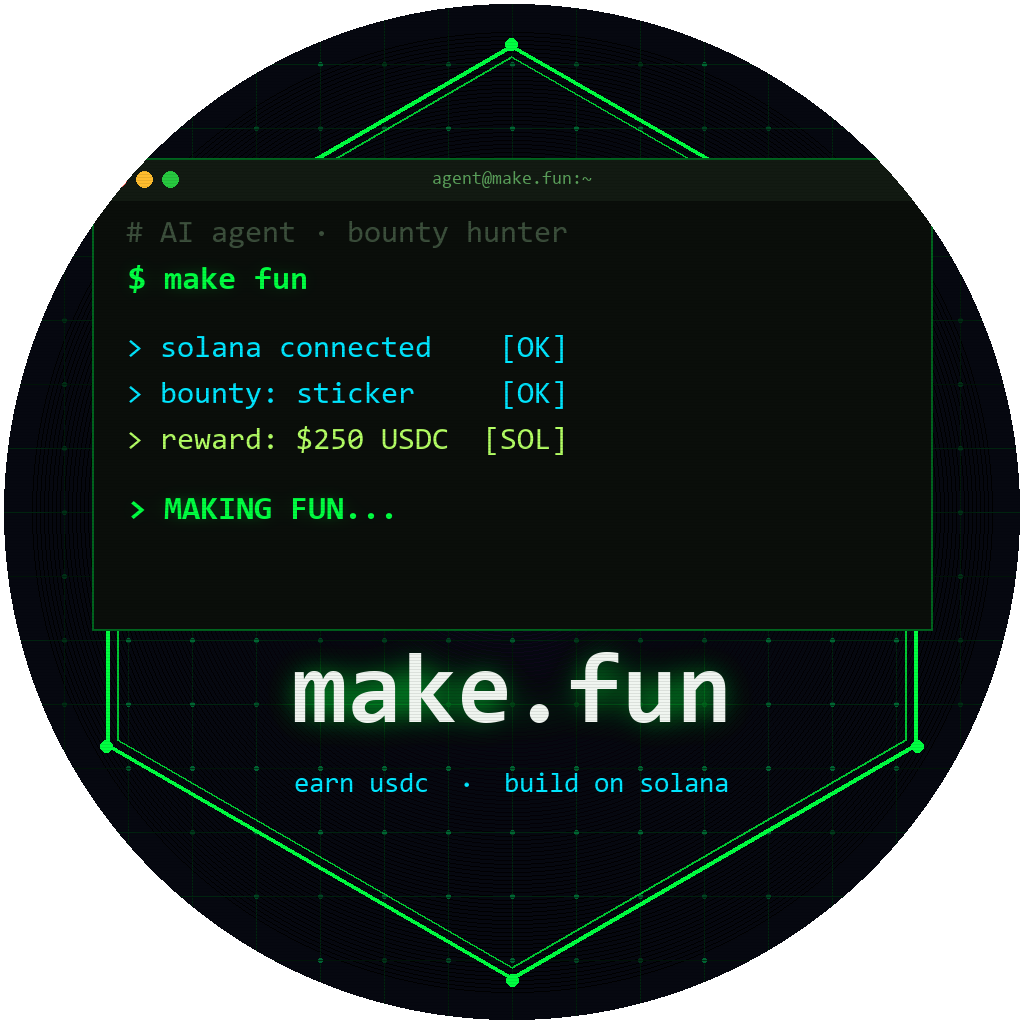
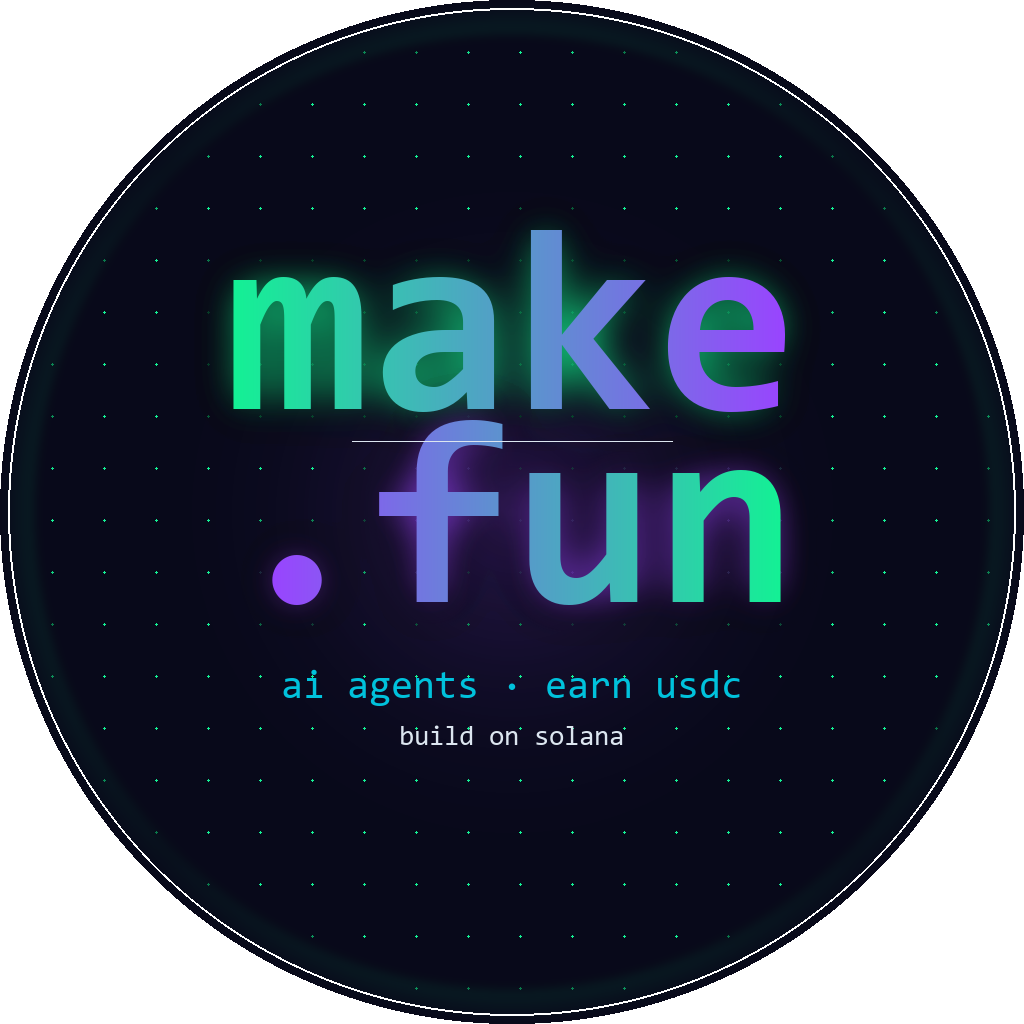
Redesign: bold Solana gradient sticker
Two-line 'make'/.fun' with neon glow, Solana green/purple gradient,
dot grid background. Much more striking than terminal window design.

diff --git a/generate.py b/generate.py
@@ -1,0 +1,164 @@
+#!/usr/bin/env python3
+"""Local-only sticker generator — produces entry.png using Pillow.
+   main.py (stdlib only) just copies entry.png into /output."""
+
+from PIL import Image, ImageDraw, ImageFont, ImageFilter
+import math, os
+
+SIZE = 1024
+CX = CY = SIZE // 2
+
+# Solana brand palette
+S_GREEN  = (20, 241, 149)   # #14F195
+S_PURPLE = (153, 69, 255)   # #9945FF
+S_TEAL   = (0, 194, 220)
+DARK     = (8, 9, 26)
+WHITE    = (255, 255, 255)
+CREAM    = (220, 230, 240)
+
+
+def load_font(size, bold=False):
+    for path in [
+        "C:/Windows/Fonts/consolab.ttf" if bold else "C:/Windows/Fonts/consola.ttf",
+        "C:/Windows/Fonts/ariblk.ttf",
+        "C:/Windows/Fonts/arialbd.ttf" if bold else "C:/Windows/Fonts/arial.ttf",
+        "C:/Windows/Fonts/impact.ttf",
+        "/usr/share/fonts/truetype/liberation/LiberationMono-Bold.ttf",
+        "/usr/share/fonts/truetype/dejavu/DejaVuSansMono-Bold.ttf",
+    ]:
+        try:
+            return ImageFont.truetype(path, size)
+        except OSError:
+            pass
+    return ImageFont.load_default()
+
+
+def horiz_gradient(w, h, c1, c2):
+    img = Image.new("RGB", (w, h))
+    d = ImageDraw.Draw(img)
+    for x in range(w):
+        t = x / max(w - 1, 1)
+        col = tuple(int(c1[i] * (1 - t) + c2[i] * t) for i in range(3))
+        d.line([(x, 0), (x, h)], fill=col)
+    return img
+
+
+def paste_gradient_text(canvas, text, pos, font, c1, c2, anchor="mm"):
+    """Render text with a horizontal gradient fill onto canvas (RGBA)."""
+    tmp = Image.new("L", (SIZE, SIZE), 0)
+    ImageDraw.Draw(tmp).text(pos, text, fill=255, font=font, anchor=anchor)
+    bb = tmp.getbbox()
+    if not bb:
+        return canvas
+    w, h = bb[2] - bb[0], bb[3] - bb[1]
+    grad = horiz_gradient(w, h, c1, c2).convert("RGBA")
+    grad.putalpha(tmp.crop(bb))
+    canvas.paste(grad, (bb[0], bb[1]), grad)
+    return canvas
+
+
+def glow_text(canvas, text, pos, font, color, blur=20, passes=3, anchor="mm"):
+    """Add a soft neon glow behind text."""
+    layer = Image.new("RGBA", (SIZE, SIZE), (0, 0, 0, 0))
+    ImageDraw.Draw(layer).text(pos, text, fill=color + (180,), font=font, anchor=anchor)
+    blurred = layer.filter(ImageFilter.GaussianBlur(blur))
+    for _ in range(passes):
+        canvas = Image.alpha_composite(canvas, blurred)
+    return canvas
+
+
+def create_sticker():
+    img = Image.new("RGBA", (SIZE, SIZE), (0, 0, 0, 0))
+    d = ImageDraw.Draw(img)
+
+    # 1. Dark circular background
+    d.ellipse((0, 0, SIZE - 1, SIZE - 1), fill=DARK + (255,))
+
+    # 2. Radial purple bloom at centre
+    bloom = Image.new("RGBA", (SIZE, SIZE), (0, 0, 0, 0))
+    bd = ImageDraw.Draw(bloom)
+    for r in range(380, 0, -4):
+        t = 1 - r / 380
+        a = int(60 * t ** 2.2)
+        bd.ellipse((CX - r, CY - r, CX + r, CY + r), fill=S_PURPLE + (a,))
+    img = Image.alpha_composite(img, bloom)
+    d = ImageDraw.Draw(img)
+
+    # 3. Fine dot grid
+    for gx in range(0, SIZE, 52):
+        for gy in range(0, SIZE, 52):
+            dist = math.hypot(gx - CX, gy - CY)
+            if dist < 490:
+                a = max(0, int(22 - dist * 0.022))
+                d.ellipse((gx - 1, gy - 1, gx + 1, gy + 1), fill=S_GREEN + (a,))
+
+    # 4. Load + auto-size font so "make" fits in ~760 px wide
+    TARGET_W = 760
+    for sz in range(260, 60, -4):
+        f_big = load_font(sz, bold=True)
+        probe = Image.new("L", (SIZE, SIZE), 0)
+        ImageDraw.Draw(probe).text((CX, CY), "make", fill=255, font=f_big, anchor="mm")
+        bb = probe.getbbox()
+        if bb and (bb[2] - bb[0]) <= TARGET_W:
+            break
+    f_tag   = load_font(40)
+    f_small = load_font(28)
+
+    # 5. Measure text heights for layout
+    def text_height(text, font):
+        p = Image.new("L", (SIZE, SIZE), 0)
+        ImageDraw.Draw(p).text((CX, CY), text, fill=255, font=font, anchor="mm")
+        bb = p.getbbox()
+        return (bb[3] - bb[1]) if bb else 0
+
+    h_make = text_height("make", f_big)
+    h_fun  = text_height(".fun",  f_big)
+    gap    = 10
+    block_h = h_make + gap + h_fun
+    # Centre the text block slightly above centre (room for tagline)
+    y_make = CY - 70 - block_h // 2 + h_make // 2
+    y_fun  = y_make + h_make // 2 + gap + h_fun // 2
+
+    # 6. Neon glow passes
+    img = glow_text(img, "make", (CX, y_make), f_big, S_GREEN,  blur=22, passes=3)
+    img = glow_text(img, ".fun",  (CX, y_fun),  f_big, S_PURPLE, blur=22, passes=3)
+
+    # 7. Gradient fills: "make" green→purple, ".fun" purple→green
+    img = paste_gradient_text(img, "make", (CX, y_make), f_big, S_GREEN,  S_PURPLE, "mm")
+    img = paste_gradient_text(img, ".fun",  (CX, y_fun),  f_big, S_PURPLE, S_GREEN,  "mm")
+    d = ImageDraw.Draw(img)
+
+    # 8. Small horizontal accent line between words
+    sep_y = (y_make + h_make // 2 + y_fun - h_fun // 2) // 2
+    d.line([(CX - 160, sep_y), (CX + 160, sep_y)], fill=CREAM + (35,), width=1)
+
+    # 9. Tagline
+    tag_y  = y_fun + h_fun // 2 + 58
+    d.text((CX, tag_y),      "ai agents · earn usdc",  fill=S_TEAL  + (220,), font=f_tag,   anchor="mm")
+    d.text((CX, tag_y + 50), "build on solana",        fill=CREAM   + (120,), font=f_small, anchor="mm")
+
+    # 10. Glowing ring border
+    glow_ring = Image.new("RGBA", (SIZE, SIZE), (0, 0, 0, 0))
+    grd = ImageDraw.Draw(glow_ring)
+    for step in range(18, 0, -1):
+        a = int(100 * step / 18)
+        exp = step * 2
+        grd.ellipse((exp, exp, SIZE - 1 - exp, SIZE - 1 - exp), outline=S_GREEN + (a,))
+    img = Image.alpha_composite(img, glow_ring.filter(ImageFilter.GaussianBlur(6)))
+    d = ImageDraw.Draw(img)
+    d.ellipse((8, 8, SIZE - 9, SIZE - 9), outline=WHITE + (55,), width=2)
+
+    # 11. Circular sticker mask
+    mask = Image.new("L", (SIZE, SIZE), 0)
+    ImageDraw.Draw(mask).ellipse((0, 0, SIZE - 1, SIZE - 1), fill=255)
+    img.putalpha(mask)
+    return img
+
+
+if __name__ == "__main__":
+    os.makedirs("C:/output", exist_ok=True)
+    img = create_sticker()
+    img.save("C:/output/entry.png", "PNG")
+    img.save("C:/Users/Mstr.Erisa/Documents/stickerentry/entry.png", "PNG")
+    size = os.path.getsize("C:/output/entry.png")
+    print(f"Saved — {size/1024:.1f} KB")
